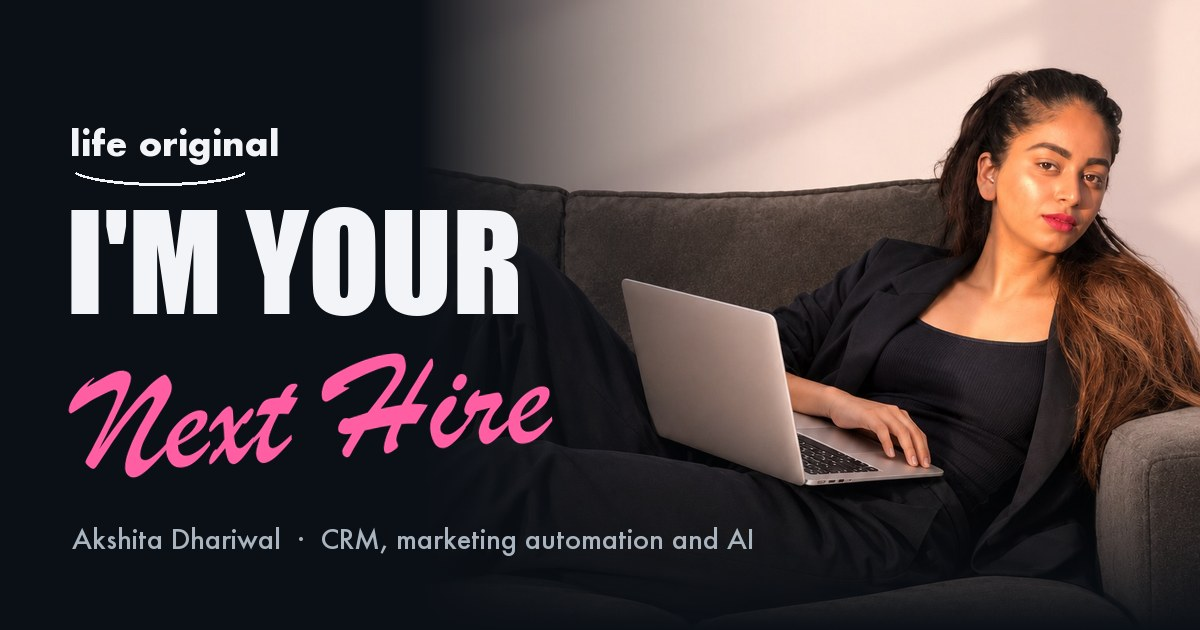
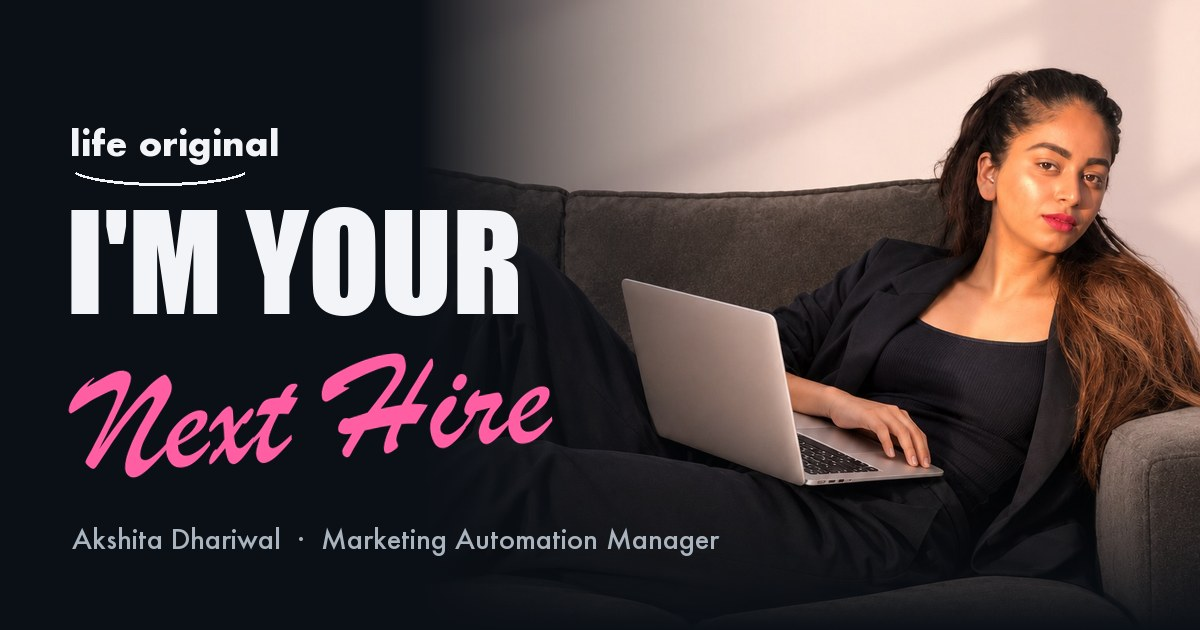
Reposition as Marketing Automation Manager
New hero blurb, expanded Experience with actions and measured results,
ChatGPT and Codex in Tools, AUTOMATION · AI tags, updated link preview,
footer, share message and search suggestions.

Changed region(s): [[0.2467, 0.8444, 0.6475, 0.8746]]

diff --git a/src/content.js b/src/content.js
@@ -28,7 +28,7 @@ export const hero = {
   isNew: 'NEW MOVIE',
   rank: '#1 in inspiring movies',
   description:
-    'She marketed 20+ brands across India, from Budweiser to Hyatt to Mamaearth. Then she crossed continents, earned a Bristol MSc, and became the CRM analyst who got every system talking to each other. By night, she builds AI that answers phones, finds leads and never asks for a day off. The final scene is yours to write. Spoiler: it ends with "You\'re hired."',
+    'She started out marketing 20+ brands across India, from Budweiser to Hyatt. Then she found her real superpower: making marketing run itself. Today she builds automated customer journeys, CRM workflows and AI agents that answer phones, chase leads and never ask for a day off. The final scene is yours to write. Spoiler: it ends with "You\'re hired."',
   genres: ['Inspiring', 'Drama', 'Feel-good'],
   rating: 'AMDb 9/10',
   year: '2026',
@@ -42,13 +42,56 @@ export const details = {
   tabs: ['Gallery', 'Details'],
   experience: {
     title: 'Experience',
-    badges: ['DATA VISION', 'CRM', 'AI'],
-    intro: 'From brand and partnership marketing in New Delhi to CRM and AI automation in the UK.',
+    badges: ['MARKETING AUTOMATION', 'LIFECYCLE', 'AI'],
+    intro: 'From brand and partnership marketing in New Delhi to marketing automation and AI in the UK.',
     roles: [
-      { when: 'Aug 2024 to now', role: 'AI Automation Consultant', org: 'Freelance', text: 'AI agents, voice receptionists and CRM automations for small businesses.' },
-      { when: 'Jul 2025 to Oct 2026', role: 'CRM Analyst', org: 'Hillcrest Estate Management, Bristol', text: 'Fixflo to HubSpot sync, Power BI dashboards saving around 7 hours a week, Mailchimp campaigns.' },
-      { when: 'Jul 2022 to Aug 2023', role: 'Marketing Manager', org: 'Blisstro Videos, New Delhi', text: '20+ brands, £90k+ in B2B partnerships, 50+ creators and a team of 10.' },
-      { when: 'Jul 2021 to Jun 2022', role: 'Marketing Executive', org: 'Blisstro Videos, New Delhi', text: 'Social, digital, print and event campaigns for brand clients.' },
+      {
+        when: 'Aug 2024 to now',
+        role: 'Marketing & AI Automation Consultant',
+        org: 'Freelance',
+        scope: 'Marketing and operations automation for small businesses, built in n8n.',
+        points: [
+          'Built 9 automation systems covering customer journeys, CRM workflows and AI agents.',
+          "Built an AI support agent that drafts email replies from a business's own knowledge base, with a person approving every send.",
+          'Built an AI voice receptionist that books, moves and cancels appointments, and flags calls that need a human.',
+          'Built a live AI tool on this site that reads any website and suggests 3 automations in about 5 seconds.',
+        ],
+      },
+      {
+        when: 'Jul 2025 to Oct 2026',
+        role: 'CRM Analyst',
+        org: 'Hillcrest Estate Management, Bristol',
+        scope: 'CRM, marketing automation and lifecycle communications for an 82-property residential portfolio.',
+        points: [
+          'Connected Fixflo to HubSpot with Zapier, so repair tickets landed in CRM pipelines automatically: ticket creation 40% faster and emergency dispatch under 15 minutes.',
+          'Built automated Mailchimp journeys for leaseholder onboarding and updates: 62% open rate and 25% fewer routine support calls.',
+          'Automated contractor renewal reminders in HubSpot, saving property managers 10+ hours a month of contract admin.',
+          'Cleaned and standardised resident, leaseholder and contractor data across HubSpot and Mailchimp, keeping it 99%+ accurate and GDPR compliant.',
+          'Built Power BI dashboards on CRM data that saved around 7 hours of reporting a week.',
+          'Kept a 100% complaint resolution rate, measured in Fixflo.',
+        ],
+      },
+      {
+        when: 'Jul 2022 to Aug 2023',
+        role: 'Marketing Manager',
+        org: 'Blisstro Videos, New Delhi',
+        scope: 'Promoted from Marketing Executive. Led marketing for 20+ brands across food, drinks, FMCG, beauty and hospitality.',
+        points: [
+          'Won £90k+ in B2B partnership revenue from Tier-1 brands like Budweiser and Kingfisher, owning each deal from pitch to ROI report.',
+          'Ran 50+ creator partnerships against monthly KPIs for every brand, lifting client engagement by 35%.',
+          'Led a cross-functional team of 10 across campaigns for Sula Wines, Mamaearth, Hyatt and JW Marriott.',
+        ],
+      },
+      {
+        when: 'Jul 2021 to Jun 2022',
+        role: 'Marketing Executive',
+        org: 'Blisstro Videos, New Delhi',
+        scope: 'Campaigns for brand clients across social, digital, print and out-of-home.',
+        points: [
+          'Delivered brand events end to end, from concept and suppliers to budget.',
+          'Marketed music and culture events including Sunburn, Supersonic and Inscape.',
+        ],
+      },
     ],
   },
   credits: {
@@ -67,12 +110,13 @@ export const details = {
   },
   tools: {
     title: 'Tools I speak fluently',
-    badges: ['CRM', 'AI'],
+    badges: ['AUTOMATION', 'AI'],
     groups: [
-      { label: 'CRM and marketing', items: ['HubSpot', 'Salesforce', 'Mailchimp', 'Bloomreach', 'Fixflo', 'Zapier', 'Google Analytics', 'LinkedIn Matched Audiences', 'Canva'] },
-      { label: 'AI and automation', items: ['n8n', 'Claude', 'Claude Code', 'Gemini', 'OpenAI', 'Vapi voice AI', 'Pinecone', 'Firecrawl', 'Groq', 'Python'] },
-      { label: 'Data and reporting', items: ['Power BI', 'Excel', 'Google Sheets', 'Airtable', 'Supabase'] },
-      { label: 'Building', items: ['React', 'Next.js', 'FastAPI', 'Vite', 'GitHub'] },
+      { label: 'Marketing automation and CRM', items: ['n8n', 'Zapier', 'HubSpot', 'Mailchimp', 'Salesforce', 'Bloomreach', 'Fixflo'] },
+      { label: 'AI', items: ['Claude', 'Claude Code', 'ChatGPT', 'Codex', 'Gemini', 'OpenAI API', 'Vapi voice AI', 'Pinecone', 'Firecrawl', 'Groq'] },
+      { label: 'Data and reporting', items: ['Power BI', 'Google Analytics', 'Excel', 'Google Sheets', 'Airtable', 'Supabase'] },
+      { label: 'Marketing', items: ['LinkedIn Matched Audiences', 'Canva'] },
+      { label: 'Building', items: ['Python', 'React', 'Next.js', 'FastAPI', 'Vite', 'GitHub'] },
     ],
   },
   // Paste a link into `link` to turn a name into a link.
@@ -263,9 +307,9 @@ export const search = {
   label: 'Search my portfolio',
   placeholder: 'Search my CV and projects',
   tryLabel: 'Try searching for',
-  tryThese: ['CRM', 'AI automation', 'HubSpot', 'Budweiser', 'Power BI', 'Bristol'],
+  tryThese: ['Marketing automation', 'AI', 'n8n', 'HubSpot', 'Budweiser', 'Bristol'],
   none: 'Nothing found for',
-  noneHint: 'Try CRM, HubSpot or AI.',
+  noneHint: 'Try marketing automation, HubSpot or AI.',
   sections: {
     about: 'About',
     experience: 'Experience',
@@ -324,7 +368,7 @@ export const contact = {
 // The "Contact us" section and footer at the bottom of the page.
 export const footer = {
   title: 'Contact us',
-  text: "Hiring for CRM, marketing automation or AI? I'd love to hear from you.",
+  text: "Hiring a marketing automation manager? I'd love to hear from you.",
   links: [
     { key: 'email', label: 'Email', handle: 'akshitadhariwal96@gmail.com', href: 'mailto:akshitadhariwal96@gmail.com?subject=Your%20portfolio%20caught%20my%20eye' },
     { key: 'linkedin', label: 'LinkedIn', handle: 'in/akshitadhariwal', href: 'https://www.linkedin.com/in/akshitadhariwal' },
@@ -430,7 +474,7 @@ export const share = {
   copied: 'Copied!',
   more: 'More options',
   subject: 'Akshita Dhariwal: your next hire',
-  message: 'Take a look at Akshita Dhariwal, a marketer who builds AI automation:',
+  message: 'Take a look at Akshita Dhariwal, a marketing automation manager who builds with AI:',
 }
 
 // The CV pop-up. Not on the page for now: the Download CV button was removed before launch

diff --git a/index.html b/index.html
@@ -6,7 +6,7 @@
     <link rel="icon" type="image/svg+xml" href="/favicon.svg" />
     <meta name="theme-color" content="#0b1016" />
     <title>Akshita Dhariwal: I'm Your Next Hire</title>
-    <meta name="description" content="A marketer who builds: CRM, marketing automation and AI. See the automations I've built, try my live AI, and get in touch." />
+    <meta name="description" content="Marketing automation manager who builds with AI: automated customer journeys, CRM workflows and AI agents. See what I've built, try my live AI, and get in touch." />
 
     <!-- The card shown when the link is shared on LinkedIn, WhatsApp, Slack, email and so on.
          The image is made by tools/og-image.py. -->
@@ -14,14 +14,14 @@
     <meta property="og:url" content="https://akshita9696.github.io/" />
     <meta property="og:site_name" content="life video" />
     <meta property="og:title" content="Akshita Dhariwal: I'm Your Next Hire" />
-    <meta property="og:description" content="A marketer who builds: CRM, marketing automation and AI. See the automations I've built, try my live AI, and get in touch." />
+    <meta property="og:description" content="Marketing automation manager who builds with AI: automated customer journeys, CRM workflows and AI agents. See what I've built, try my live AI, and get in touch." />
     <meta property="og:image" content="https://akshita9696.github.io/og-image.jpg" />
     <meta property="og:image:width" content="1200" />
     <meta property="og:image:height" content="630" />
     <meta property="og:image:alt" content="Akshita Dhariwal on a sofa with a laptop, beside the title I'm Your Next Hire" />
     <meta name="twitter:card" content="summary_large_image" />
     <meta name="twitter:title" content="Akshita Dhariwal: I'm Your Next Hire" />
-    <meta name="twitter:description" content="A marketer who builds: CRM, marketing automation and AI." />
+    <meta name="twitter:description" content="Marketing automation manager who builds with AI." />
     <meta name="twitter:image" content="https://akshita9696.github.io/og-image.jpg" />
   </head>
   <body>

diff --git a/src/sections/details.js b/src/sections/details.js
@@ -24,7 +24,16 @@ export function renderDetails() {
      <p class="card-meta">${hero.rating} &nbsp; ${hero.year} &nbsp; ${hero.runtime} ${badges(ex.badges)}</p>
      <p class="lead">${ex.intro}</p>
      <ul class="roles">
-       ${ex.roles.map((r, i) => `<li data-find="role-${i}"><span class="when">${r.when}</span><b>${r.role}</b> · ${r.org}<br>${r.text}</li>`).join('')}
+       ${ex.roles
+         .map(
+           (r, i) => `
+         <li data-find="role-${i}">
+           <span class="when">${r.when}</span><b>${r.role}</b> · ${r.org}
+           <p class="role-scope">${r.scope}</p>
+           <ul class="role-points">${r.points.map((pt) => `<li>${pt}</li>`).join('')}</ul>
+         </li>`,
+         )
+         .join('')}
      </ul>`,
     'experience',
   )

diff --git a/src/style.css b/src/style.css
@@ -548,7 +548,7 @@ a {
   margin: 0;
   padding: 0;
   display: grid;
-  gap: 14px;
+  gap: 22px;
   font-size: 18px;
   line-height: 1.5;
   color: #b6bfc9;
@@ -556,6 +556,36 @@ a {
 
 .roles b {
   color: #fff;
+}
+
+.role-scope {
+  margin: 4px 0 6px;
+  color: #d5dbe2;
+}
+
+/* Each point is an action and its result, marked with a small pink dash. */
+.role-points {
+  list-style: none;
+  margin: 0;
+  padding: 0;
+  display: grid;
+  gap: 4px;
+}
+
+.role-points li {
+  position: relative;
+  padding-left: 18px;
+}
+
+.role-points li::before {
+  content: '';
+  position: absolute;
+  left: 2px;
+  top: 0.72em;
+  width: 8px;
+  height: 2px;
+  border-radius: 1px;
+  background: var(--pink);
 }
 
 .roles .when {

diff --git a/src/ui/search.js b/src/ui/search.js
@@ -12,7 +12,7 @@ const entries = () => [
     find: `role-${i}`,
     section: s.sections.experience,
     title: `${r.role} · ${r.org}`,
-    text: `${r.when}. ${r.text}`,
+    text: `${r.when}. ${r.scope} ${r.points.join(' ')}`,
   })),
   { find: 'education', section: s.sections.education, title: d.education.title, text: d.education.text },
   { find: 'tools', section: s.sections.tools, title: d.tools.title, text: d.tools.groups.map((g) => `${g.label}: ${g.items.join(', ')}.`).join(' ') },

diff --git a/tools/og-image.py b/tools/og-image.py
@@ -40,6 +40,6 @@ script = script.rotate(4, resample=Image.BICUBIC, expand=True)
 card.alpha_composite(script, (60, 286))
 
 draw = ImageDraw.Draw(card)
-draw.text((72, 520), 'Akshita Dhariwal  ·  CRM, marketing automation and AI', font=ImageFont.truetype(F + 'Futura.ttc', 27), fill=(170, 180, 191))
+draw.text((72, 520), 'Akshita Dhariwal  ·  Marketing Automation Manager', font=ImageFont.truetype(F + 'Futura.ttc', 27), fill=(170, 180, 191))
 card.convert('RGB').save(P + 'og-image.jpg', quality=88, optimize=True)
 print('ok')
